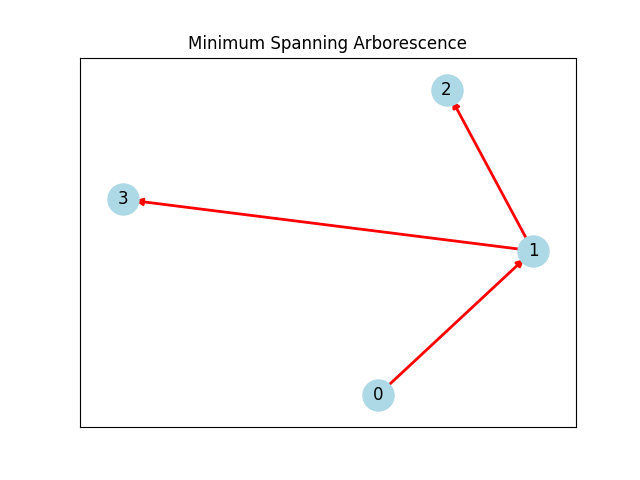
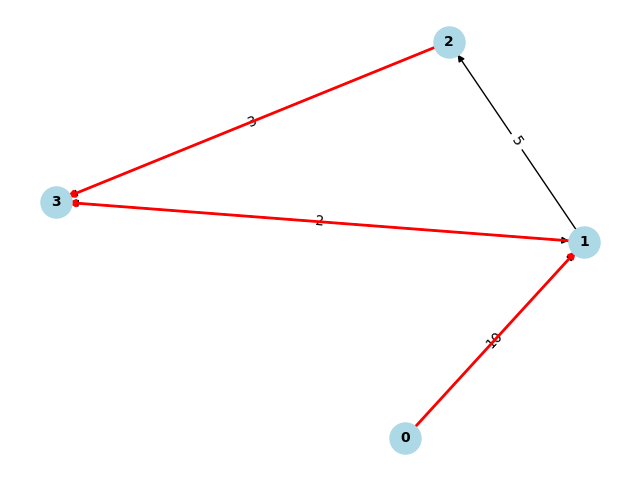
delete plt.show()

diff --git a/Minimal_connected_graph.py b/Minimal_connected_graph.py
@@ -1,63 +1,63 @@
-#READY ALGHORITHM
 import networkx as nx
 import matplotlib.pyplot as plt
 
-# Function to draw and save the graph
-def draw_graph(graph, mst_edges=None, title="Graph", filename="graph.png"):
-    pos = nx.spring_layout(graph)  # positions for all nodes
-
-    # Draw nodes and labels
-    nx.draw_networkx_nodes(graph, pos, node_size=500, node_color="lightblue")
-    nx.draw_networkx_labels(graph, pos)
-
-    # Draw edges with weights
+# Function to draw the graph
+def draw_graph(G, mst_edges=None, title="", filename="graph.png"):
+    pos = nx.spring_layout(G)
+    plt.figure()
+    nx.draw(G, pos, with_labels=True, node_color='lightblue', node_size=500, font_size=10, font_weight='bold')
+    labels = nx.get_edge_attributes(G, 'weight')
+    nx.draw_networkx_edge_labels(G, pos, edge_labels=labels)
+    
     if mst_edges:
-        # Draw MST edges in a different color
-        mst_graph = nx.DiGraph()
-        mst_graph.add_edges_from(mst_edges)
-        nx.draw_networkx_edges(graph, pos, edgelist=mst_graph.edges(), edge_color='r', arrows=True, width=2)
-        edge_labels = {(u, v): d['weight'] for u, v, d in graph.edges(data=True) if (u, v) in mst_edges}
-    else:
-        nx.draw_networkx_edges(graph, pos, arrows=True)
-        edge_labels = nx.get_edge_attributes(graph, 'weight')
-
-    nx.draw_networkx_edge_labels(graph, pos, edge_labels=edge_labels)
+        mst = nx.DiGraph()
+        mst.add_edges_from(mst_edges)
+        nx.draw_networkx_edges(mst, pos, edgelist=mst_edges, edge_color='r', width=2)
+    
     plt.title(title)
     plt.savefig(filename)
-    plt.clf()  # Clear the current figure to prevent overlap when drawing the next graph
+    plt.show()
 
-# Function to find minimum spanning arborescence using Edmonds' algorithm with constraints
-def min_spanning_arborescence(graph, root, max_edges_per_node=None, excluded_edges=None):
-    arborescence = nx.algorithms.tree.branchings.Edmonds(graph)
-
+# Function to find the Minimum Spanning Arborescence
+def min_spanning_arborescence(G, root, max_edges_per_node=None, excluded_edges=None):
     if max_edges_per_node is None:
         max_edges_per_node = {}
     if excluded_edges is None:
         excluded_edges = set()
-
-    # Remove excluded edges from the graph
-    for u, v in excluded_edges:
-        if graph.has_edge(u, v):
-            graph.remove_edge(u, v)
-
-    # Find the MSA with constraints
-    mst = arborescence.find_optimum(attr='weight', default=0, kind='min', style='arborescence', preserve_attrs=True)
-
-    # Filter edges based on max_edges_per_node constraint
-    final_edges = []
-    edge_count = {node: 0 for node in graph.nodes()}
-
-    for u, v, d in mst.edges(data=True):
-        if u in max_edges_per_node and edge_count[u] >= max_edges_per_node[u]:
+    
+    edges = sorted(G.edges(data=True), key=lambda x: x[2]['weight'])
+    parent = {node: node for node in G.nodes()}
+    rank = {node: 0 for node in G.nodes()}
+    
+    def find(node):
+        if parent[node] != node:
+            parent[node] = find(parent[node])
+        return parent[node]
+    
+    def union(node1, node2):
+        root1 = find(node1)
+        root2 = find(node2)
+        if root1 != root2:
+            if rank[root1] > rank[root2]:
+                parent[root2] = root1
+            else:
+                parent[root1] = root2
+                if rank[root1] == rank[root2]:
+                    rank[root2] += 1
+    
+    mst_edges = []
+    for u, v, data in edges:
+        if (u, v) in excluded_edges or (v, u) in excluded_edges:
             continue
-        if v in max_edges_per_node and edge_count[v] >= max_edges_per_node[v]:
-            continue
-        
-        final_edges.append((u, v, d))
-        edge_count[u] += 1
-        edge_count[v] += 1
-
-    return final_edges
+        if find(u) != find(v):
+            if u in max_edges_per_node and len([e for e in mst_edges if e[0] == u]) >= max_edges_per_node[u]:
+                continue
+            if v in max_edges_per_node and len([e for e in mst_edges if e[1] == v]) >= max_edges_per_node[v]:
+                continue
+            union(u, v)
+            mst_edges.append((u, v, data))
+    
+    return mst_edges
 
 # Create a directed graph with weights
 G = nx.DiGraph()
@@ -66,17 +66,17 @@ G.add_edge(1, 2, weight=5)
 G.add_edge(2, 3, weight=3)
 G.add_edge(3, 1, weight=2)
 G.add_edge(1, 3, weight=1)
+
 # Draw and save the input graph
 draw_graph(G, title="Input Directed Weighted Graph", filename="input_graph.png")
 
 # Define constraints
 root = 0
 max_edges_per_node = {}  # Example: node 1 can have at most 2 edges, node 2 can have at most 1 edge
-excluded_edges = { }  # Example: exclude edges (3, 1) and (1, 3)
+excluded_edges = {}  # Example: exclude edges (3, 1) and (1, 3)
 
 # Find the Minimum Spanning Arborescence with constraints
 mst_edges = min_spanning_arborescence(G, root, max_edges_per_node=max_edges_per_node, excluded_edges=excluded_edges)
 
 # Draw and save the Minimum Spanning Arborescence
 draw_graph(G, mst_edges=mst_edges, title="Minimum Spanning Arborescence", filename="msa_graph.png")
-
